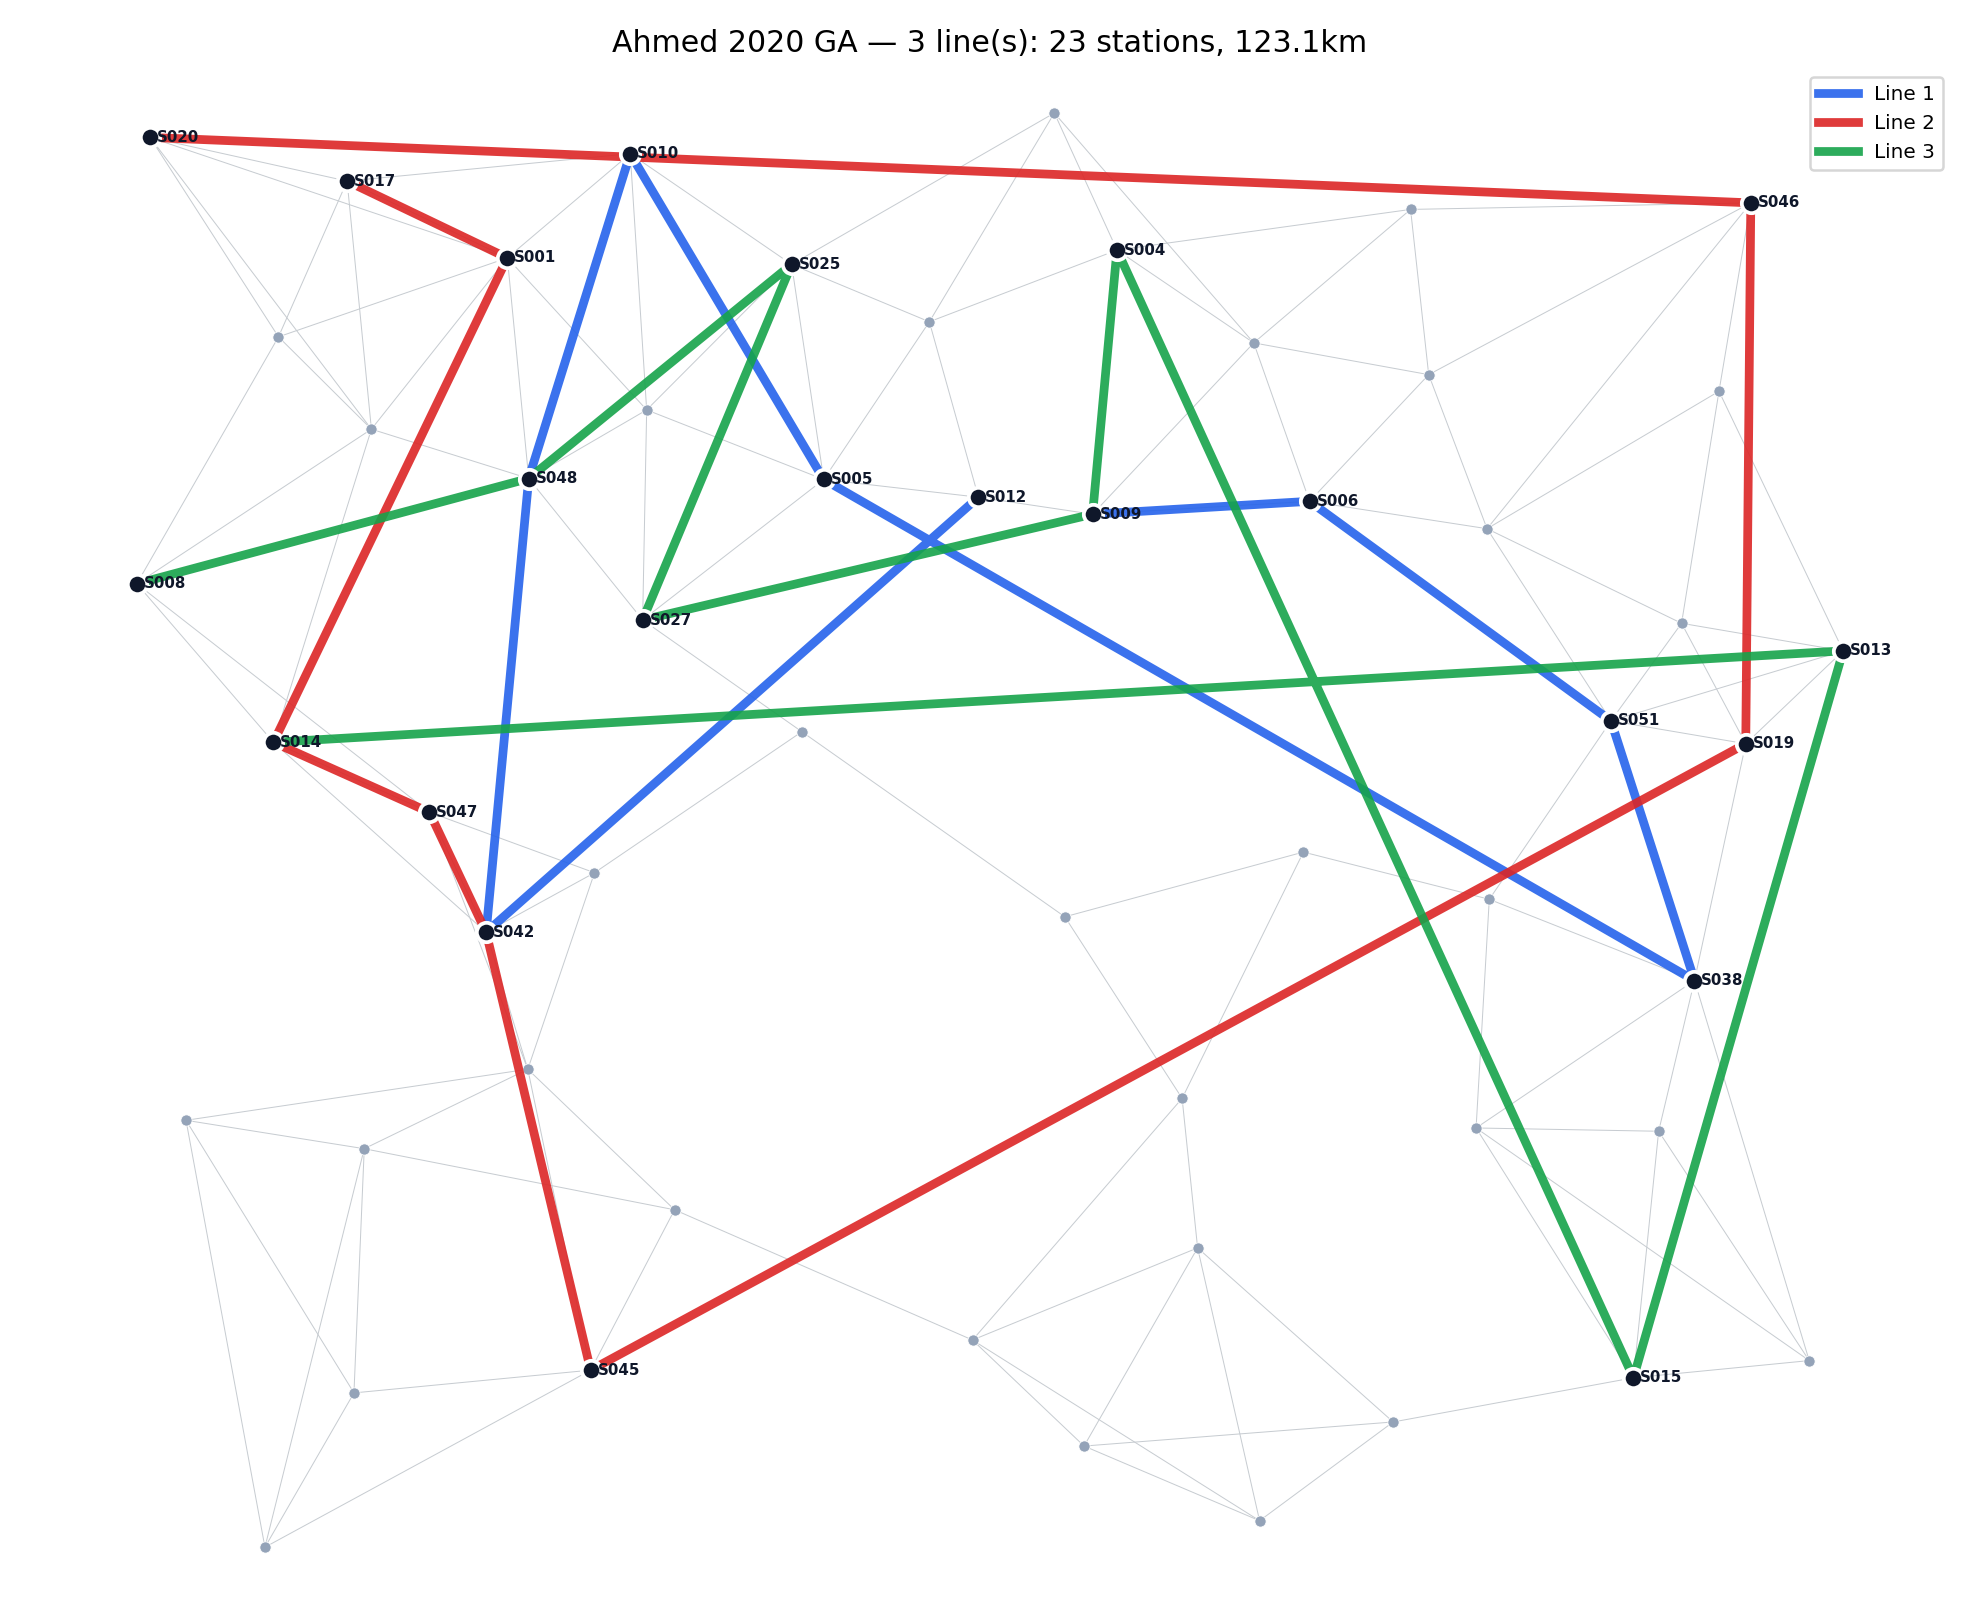
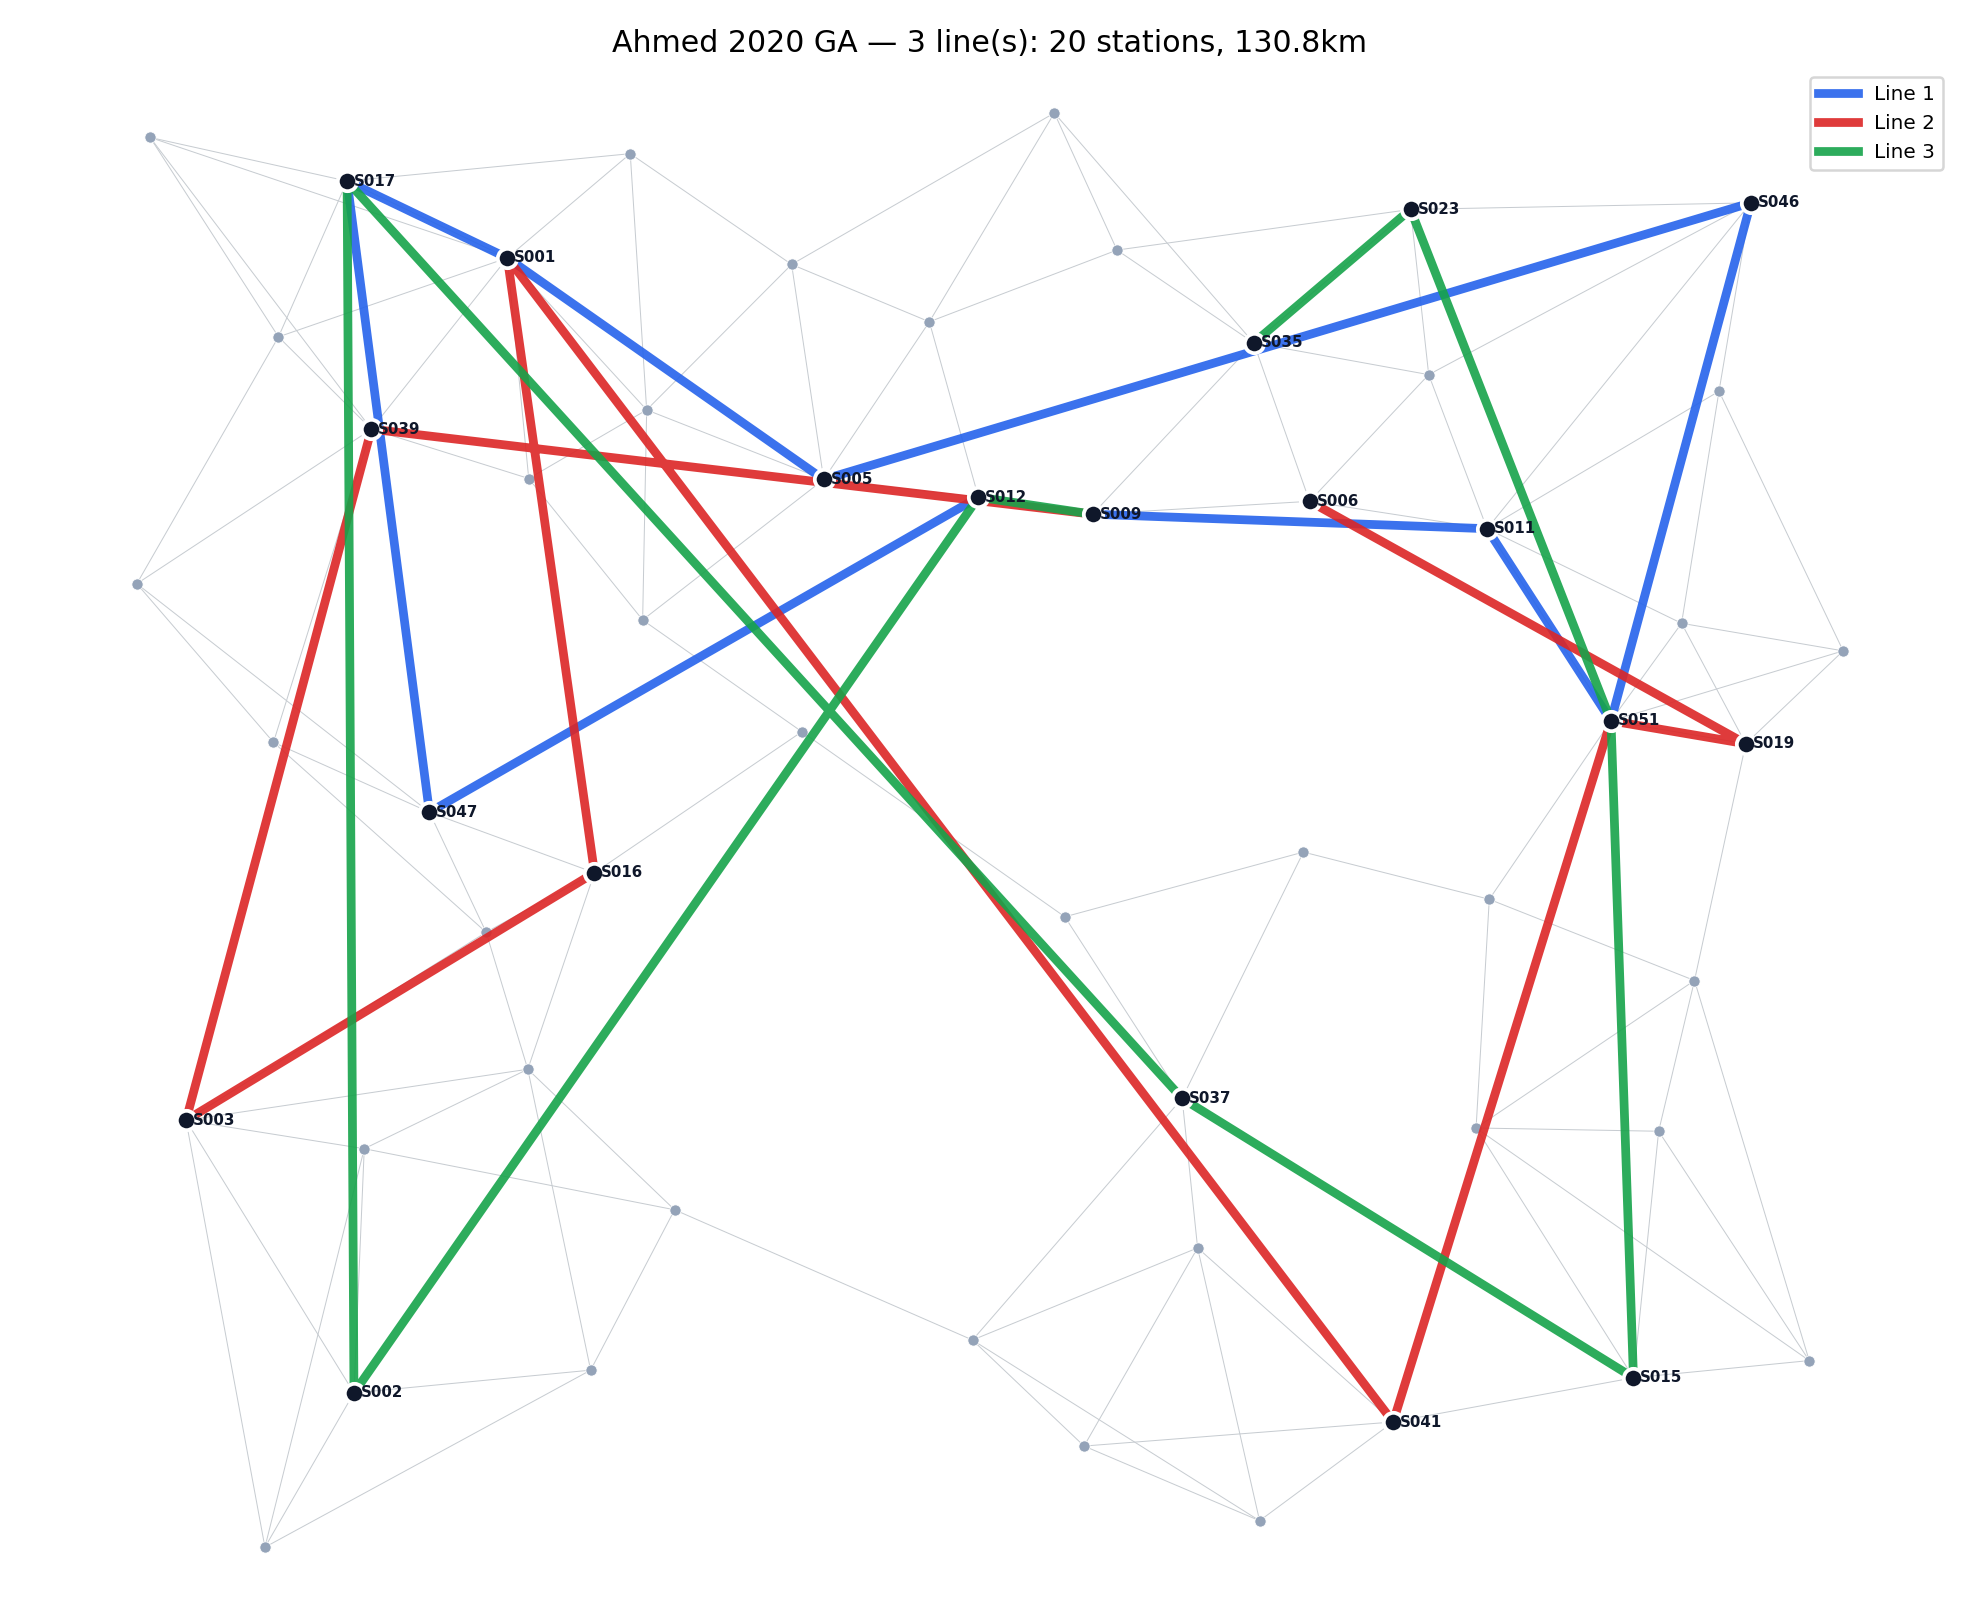
Fix Ahmed 2020: hub-based terminal selection for realistic metro topology
Changed terminal pair selection from enforcing unique terminals (which
produced unrelated crossing lines) to building a hub-based network where
multiple lines converge at shared hub stations, just like real metro systems.

Each subsequent line preferentially shares exactly one terminal with an
existing line, creating radial corridors from central hubs.

Result: hub at S009 with lines radiating west, southeast, and northeast.

diff --git a/line_network_model/ahmed2020.py b/line_network_model/ahmed2020.py
@@ -221,16 +221,35 @@ def _select_terminal_pairs(
             score = value[u] + value[v]
         pairs.append((score, u, v))
     pairs.sort(key=lambda x: x[0], reverse=True)
+
     selected = []
-    used: set[str] = set()
-    for _score, u, v in pairs:
-        if u in used or v in used:
-            continue
-        selected.append((u, v))
-        used.add(u)
-        used.add(v)
-        if len(selected) >= n_lines:
+    used_terminals: set[str] = set()
+
+    # First line: highest-OD pair
+    selected.append((pairs[0][1], pairs[0][2]))
+    used_terminals.update(selected[0])
+
+    # Subsequent lines: prefer sharing a terminal (hub-based network)
+    for _ in range(n_lines - 1):
+        hub_pair = None
+        for score, u, v in pairs:
+            if any({u, v} == set(p) for p in selected):
+                continue
+            # Share exactly one terminal → creates a hub
+            if (u in used_terminals) != (v in used_terminals):
+                hub_pair = (score, u, v)
+                break
+        # Fallback: any unselected pair
+        if hub_pair is None:
+            for score, u, v in pairs:
+                if not any({u, v} == set(p) for p in selected):
+                    hub_pair = (score, u, v)
+                    break
+        if hub_pair is None:
             break
+        selected.append((hub_pair[1], hub_pair[2]))
+        used_terminals.update(selected[-1])
+
     return selected
 
 
